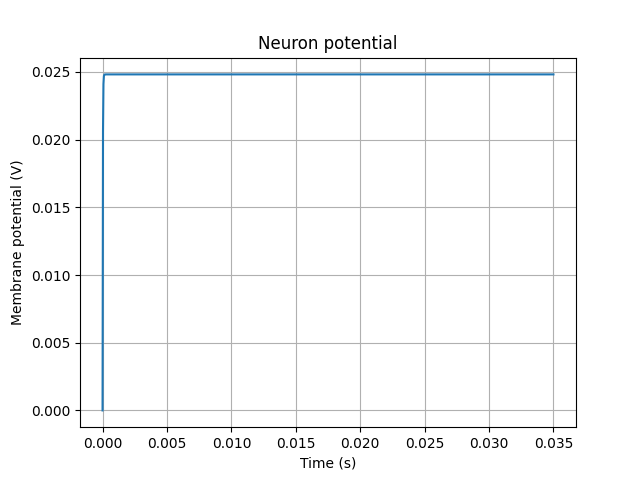
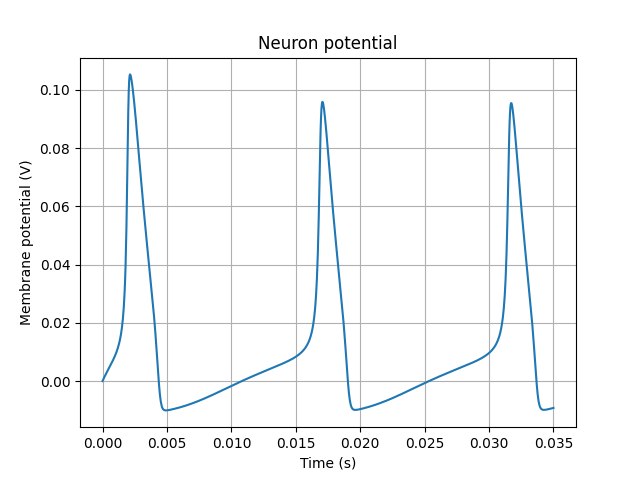
fixed comversion finally

diff --git a/HH model.py b/HH model.py
@@ -30,15 +30,15 @@ class HodgkinHuxley():
         self.g_k  = 36.*milli                       
         self.g_l  = 0.3*milli                   
         self.c_m  = 1.*mu
-        self.v   = 0.*milli
-        self.vna  = 115.*milli                        
-        self.vk   = -12.*milli                        
-        self.vl   = 10.613*milli   
+        self.v   = 0.
+        self.vna  = 115.                        
+        self.vk   = -12.                        
+        self.vl   = 10.613   
         self.vrest = 0.*milli
-        self.vthresh = -55.*milli                      
+        self.vthresh = 55.*milli                      
         self.tmin = 0.*milli
         self.tmax = 35.*milli  
-        self.i_inj = 10.*mu
+        self.i_inj = 10.*milli
         
         # self.dt = 0.001
         self.t  = np.linspace(self.tmin, self.tmax, 1000) # Total duration of simulation [ms]
@@ -50,31 +50,31 @@ class HodgkinHuxley():
     
     # NOTE: for cases where 0/0 might occur then L'Hospital's rules must apply
     def alpha_n(self,v):
-        nom = 0.01*kHz * (10*milli - v)
-        denom = (np.exp((10*milli - v) / 10*milli) - 1)
+        nom = 0.01* (10 - v)
+        denom = (np.exp((10 - v) / 10) - 1)
 
         if nom == 0 and denom == 0 :
             return 0.1
         else:
-            return nom / denom
+            return (nom / denom)*kHz
     def beta_n(self,v):
-        return 0.125*kHz * np.exp(- v/ 80.*milli)
+        return (0.125 * np.exp(- v/ 80.))*kHz
 
     def alpha_m(self,v):
-        nom = 0.1*kHz  * (25.*milli - v)
-        denom = (np.exp((25.*milli - v) / 10.*milli) - 1.)
+        nom = 0.1  * (25. - v)
+        denom = (np.exp((25. - v) / 10.) - 1.)
 
         if nom == 0 and denom == 0 :
             return 1.5/(-1 + np.exp(3./2.))
         else:
-            return nom / denom
+            return (nom / denom)*kHz
     def beta_m(self,v):
-        return 4.*kHz * np.exp(- v/ 18.*milli)
+        return (4. * np.exp(- v/ 18.))*kHz
 
     def alpha_h(self,v):
-        return 0.07*kHz * np.exp(- v/ 20.*milli)
+        return (0.07 * np.exp(- v/ 20.))*kHz
     def beta_h(self,v):
-        return 1.*kHz / (np.exp((30.*milli -v) / 10.*milli) + 1.)
+        return (1. / (np.exp((30. -v) / 10.) + 1.))*kHz
 
     def n_inf(self,v):
         return self.alpha_n(v) / (self.alpha_n(v) + self.beta_n(v))
@@ -96,19 +96,20 @@ class HodgkinHuxley():
     #         return self.i_inj
     #     return 0.0
 
-    # def frequency(self,v):
-    #     self.firing_rate = []
-    #     self.iinj = np.linspace(0, self.i_inj, 1000)
-    #     rec_spikes = 0               # record spike times
+    def frequency(self,v):
+        v = v *milli
+        self.firing_rate = []
+        self.iinj = np.linspace(0, self.i_inj, 1000)
+        rec_spikes = 0               # record spike times
 
-    #     for n in range(len(self.iinj)):
-    #         for l in range(len(self.t)-1):
-    #             # print(self.vthresh)
-    #             # print(v[l])
-    #             if v[l] >= self.vthresh:
-    #                 rec_spikes +=1
-    #                 v[l+1] = self.vrest
-    #         self.firing_rate.append(rec_spikes/self.tmax)
+        for n in range(len(self.iinj)):
+            for l in range(len(self.t)-1):
+                # print(self.vthresh)
+                # print(v[l])
+                if v[l] >= self.vthresh:
+                    rec_spikes +=1
+                    # v[l+1] = self.vrest
+            self.firing_rate.append(rec_spikes/self.tmax)
 
         # self.max_I = []
         # for i in range(len(self.iinj)):
@@ -148,12 +149,12 @@ class HodgkinHuxley():
         y = np.array([v, self.n_inf(v), self.m_inf(v), self.h_inf(v)], dtype= 'float64')
 
         sol = odeint(self.derivatives, y, t)    # Solve ODE
-        v = sol[:,0]
+        v = sol[:,0]*milli
         n = sol[:,1]
         m = sol[:,2]
         h = sol[:,3]
 
-        # self.frequency(sol[:,0]) #TODO change sol to v if you want to convert at the end
+        self.frequency(sol[:,0]) #TODO change sol to v if you want to convert at the end
 
         ax = plt.subplot()
         ax.plot(t, v)
@@ -164,39 +165,39 @@ class HodgkinHuxley():
         plt.savefig('Neuron Potential')
         plt.show()
 
-        # ax = plt.subplot()
-        # ax.plot(t*milli, n, 'b', label='Potassium Channel: n')
-        # ax.plot(t*milli, m, 'g', label='Sodium (Opening): m')
-        # ax.plot(t*milli, h, 'r', label='Sodium Channel (Closing): h')
-        # ax.set_ylabel('Gating value')
-        # ax.set_xlabel('Time (s)')
-        # ax.set_title('Potassium and Sodium channels')
-        # plt.legend()
-        # plt.savefig('Potassium and Sodium channels (time)')
-        # plt.show()
+        ax = plt.subplot()
+        ax.plot(t, n, 'b', label='Potassium Channel: n')
+        ax.plot(t, m, 'g', label='Sodium (Opening): m')
+        ax.plot(t, h, 'r', label='Sodium Channel (Closing): h')
+        ax.set_ylabel('Gating value')
+        ax.set_xlabel('Time (s)')
+        ax.set_title('Potassium and Sodium channels')
+        plt.legend()
+        plt.savefig('Potassium and Sodium channels (time)')
+        plt.show()
 
 
         # # Trajectories with limit cycles
-        # ax = plt.subplot()
-        # ax.plot(v, n, 'b', label='V - n')
-        # ax.plot(v, m, 'g', label='V - m')
-        # ax.plot(v, h, 'r', label='V - h')
-        # ax.set_ylabel('Gating value')
-        # ax.set_xlabel('Voltage (V)')
-        # ax.set_title('Limit cycles')
-        # plt.legend()
-        # plt.savefig('Limit Cycles')
-        # plt.show()
+        ax = plt.subplot()
+        ax.plot(v, n, 'b', label='V - n')
+        ax.plot(v, m, 'g', label='V - m')
+        ax.plot(v, h, 'r', label='V - h')
+        ax.set_ylabel('Gating value')
+        ax.set_xlabel('Voltage (V)')
+        ax.set_title('Limit cycles')
+        plt.legend()
+        plt.savefig('Limit Cycles')
+        plt.show()
 
         # F-I curve
-        # ax = plt.subplot()
-        # ax.plot(self.iinj, self.firing_rate)
-        # # ax.plot(max(self.max_I))
-        # ax.set_xlabel("Input Current(μA/cm^2)")
-        # ax.set_ylabel("Firing rate(Hz)")
-        # ax.set_title('f-I Curve')
-        # plt.savefig('f-I Curve')
-        # plt.show()
+        ax = plt.subplot()
+        ax.plot(self.iinj, self.firing_rate)
+        # ax.plot(max(self.max_I))
+        ax.set_xlabel("Input Current(A)")
+        ax.set_ylabel("Firing rate(Hz)")
+        ax.set_title('f-I Curve')
+        plt.savefig('f-I Curve')
+        plt.show()
 
 if __name__ == '__main__':
     runner = HodgkinHuxley()

diff --git a/Markov Model.py b/Markov Model.py
@@ -45,14 +45,16 @@ class Markov():
         der[11] = ξ*B + F*I[5] - O*N - O*ε  # dO/dt
         der[12] = O * ε - B*ξ   # dB/dt
 
-        print(der[0]+der[1]+der[5])
-        print(c[0]+c[1]+I[0])
+        print(der[0]+der[1]+der[5]) # has to be 0
+        print(c[0]+c[1]+I[0])       # has to be 1
 
         return der
 
     def Main(self):
-        self.derivatives(c,I,O,B)
-        # markov = odeint(self.derivatives, y, t)    # Solve ODE
+        t = self.t
+        y = np.array([v, self.n_inf(v), self.m_inf(v), self.h_inf(v)], dtype= 'float64')
+        # self.derivatives(c,I,O,B)
+        markov = odeint(self.derivatives, y, t)    # Solve ODE
 
 if __name__ == '__main__':
     runner = Markov()
